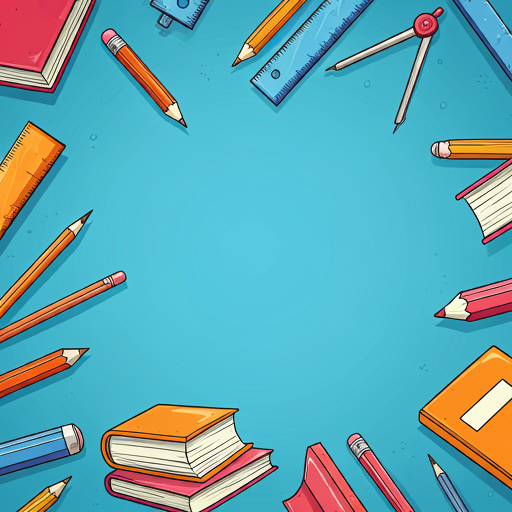
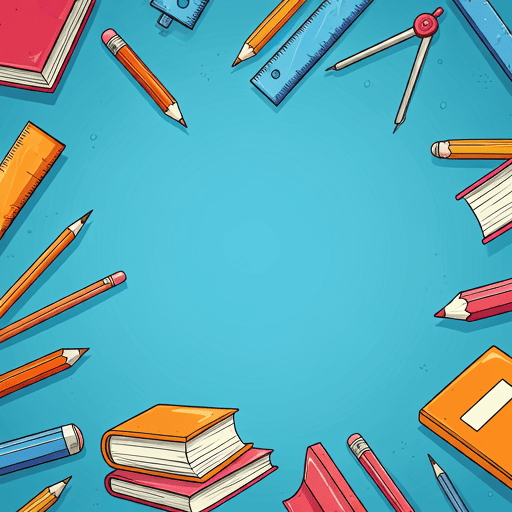
mejora render img

diff --git a/index.html b/index.html
@@ -15,6 +15,11 @@
     <meta property="og:image" content="https://libreria-panzaverde.netlify.app/img/Logo.jpg">
     <meta property="og:description"
         content="Sitio de ventas minoristas de insumos escolares y de oficina - El Zorzal - General Pacheco">
+    <link rel="preload" as="image" href="./img/carousel1.webp">
+    <link rel="preload" as="image" href="./img/carousel2.webp">
+    <link rel="preload" as="image" href="./img/carousel3.webp">
+    <link rel="preload" as="image" href="./img/carousel4.webp">
+    <link rel="preload" as="image" href="./img/carousel4.webp">
     <link rel="canonical" href="https://libreria-panzaverde.netlify.app/">
     <link rel="shortcut icon" href="./img/favicon.ico" type="image/x-icon">
     <link rel="stylesheet" href="https://cdnjs.cloudflare.com/ajax/libs/animate.css/4.1.1/animate.min.css">

diff --git a/scss/layouts/_main.scss b/scss/layouts/_main.scss
@@ -11,7 +11,7 @@ main {
     background-size: cover;
     background-repeat: no-repeat;
     background-attachment: fixed;
-    background-image: url(../img/background\ azul.png);
+    background-image: url(../img/bkgblue.webp);
     padding: 2rem;
 }
 

diff --git a/css/styless.css b/css/styless.css
@@ -196,7 +196,7 @@ main {
   background-size: cover;
   background-repeat: no-repeat;
   background-attachment: fixed;
-  background-image: url(../img/background\ azul.png);
+  background-image: url(../img/bkgblue.webp);
   padding: 2rem;
 }
 
